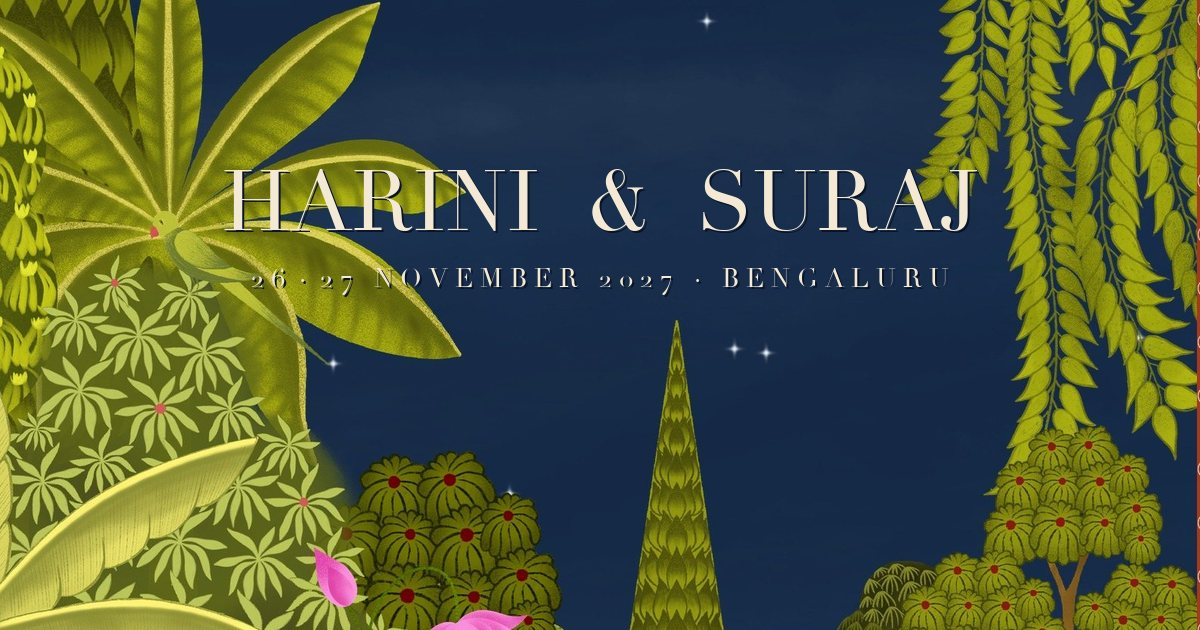
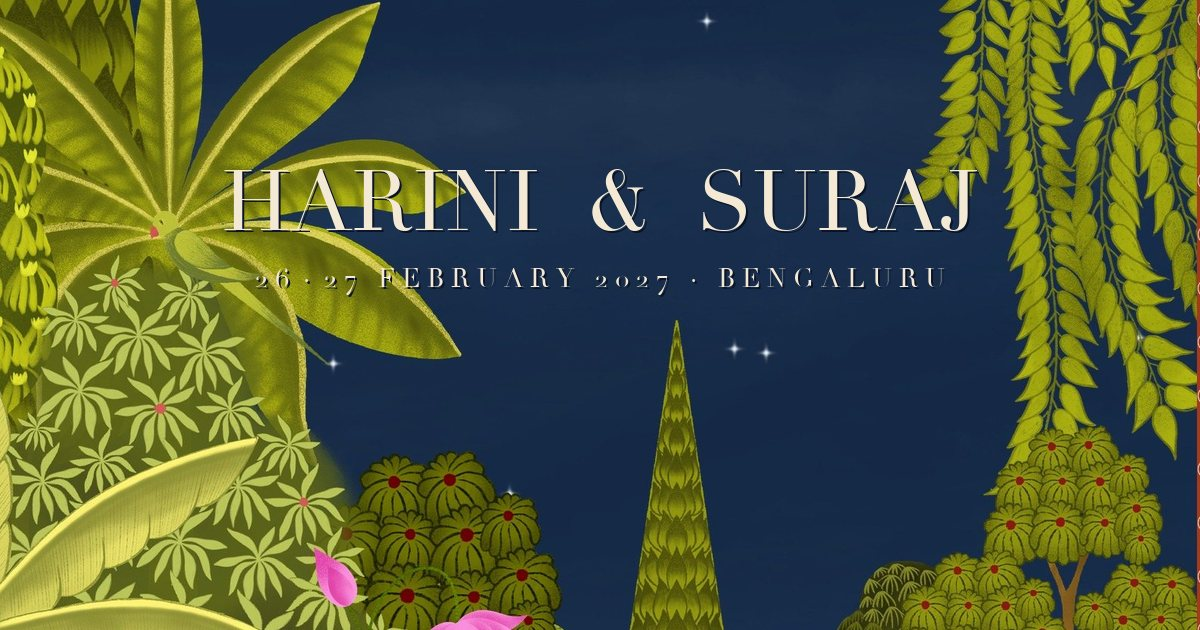
Save the Date photo card inside the banana leaf; dates back to 26 & 27 February 2027
The card stays on screen 3.5 s after the leaf opens, then fades into the site.
The card's printed date, the site and the share image now all read 26 · 27 February 2027.

Changed region(s): [[0.2158, 0.4222, 0.555, 0.4825], [0.5858, 0.4222, 0.8017, 0.4524]]

diff --git a/index.html b/index.html
@@ -3,10 +3,10 @@
 <head>
   <meta charset="utf-8">
   <meta name="viewport" content="width=device-width, initial-scale=1, viewport-fit=cover">
-  <title>Harini &amp; Suraj · 26–27 November 2027</title>
-  <meta name="description" content="You’re invited to the wedding of Harini and Suraj at Le Roma Samsara, Bengaluru, on 26 &amp; 27 November 2027.">
+  <title>Harini &amp; Suraj · 26–27 February 2027</title>
+  <meta name="description" content="You’re invited to the wedding of Harini and Suraj at Le Roma Samsara, Bengaluru, on 26 &amp; 27 February 2027.">
   <meta property="og:title" content="Harini weds Suraj">
-  <meta property="og:description" content="26 · 27 November 2027 · Le Roma Samsara, Bengaluru">
+  <meta property="og:description" content="26 · 27 February 2027 · Le Roma Samsara, Bengaluru">
   <meta property="og:image" content="https://mallareddisuraj-jpg.github.io/Shaadi/assets/share.jpg">
   <meta name="theme-color" content="#2b4e80">
   <link rel="preconnect" href="https://fonts.googleapis.com">
@@ -32,13 +32,7 @@
     <div class="env" id="env" aria-hidden="true">
       <img class="env__part env__back" src="assets/leaf-back.svg" alt="">
       <div class="env__card">
-        <div class="env__jaali"></div>
-        <p class="env__om">ॐ</p>
-        <p class="env__names">Harini <span>&amp;</span> Suraj</p>
-        <p class="eyebrow">26 · 27 November 2027</p>
-        <p class="env__blessing">With the blessings of our families,<br>we invite you to celebrate with us</p>
-        <p class="eyebrow env__venue">Le Roma Samsara · Bengaluru</p>
-        <div class="env__jaali env__jaali--foot"></div>
+        <img src="assets/save-the-date.webp" alt="Save the date: Suraj and Harini as children">
       </div>
       <img class="env__part env__flap env__flap--left" src="assets/leaf-left.svg" alt="">
       <img class="env__part env__flap env__flap--right" src="assets/leaf-right.svg" alt="">
@@ -72,7 +66,7 @@
         <h1 class="display reveal">Harini</h1>
         <p class="weds reveal">W E D S</p>
         <h1 class="display reveal">Suraj</h1>
-        <p class="eyebrow reveal">26 · 27 November 2027</p>
+        <p class="eyebrow reveal">26 · 27 February 2027</p>
       </div>
       <p class="scroll-cue eyebrow">Scroll</p>
     </section>
@@ -113,7 +107,7 @@
     <section class="textured event event--welcome">
       <figure class="event__scene reveal"><img src="assets/ev-checkin.webp" alt="The palace lawn" loading="lazy" decoding="async"></figure>
       <div class="event__text reveal">
-        <p class="eyebrow">Friday · 26 November</p>
+        <p class="eyebrow">Friday · 26 February</p>
         <h3 class="event__name">Check-in &amp; High Tea</h3>
         <p class="eyebrow event__time">6:00 PM</p>
       </div>
@@ -121,7 +115,7 @@
     <section class="textured event event--dinner">
       <figure class="event__scene reveal"><img src="assets/ev-welcome.webp" alt="The night garden" loading="lazy" decoding="async"></figure>
       <div class="event__text reveal">
-        <p class="eyebrow">Friday · 26 November</p>
+        <p class="eyebrow">Friday · 26 February</p>
         <h3 class="event__name">Welcome Reception</h3>
         <p class="eyebrow event__time">7:00 PM onwards</p>
         <p class="event__note">Followed by dinner</p>
@@ -130,7 +124,7 @@
     <section class="textured event event--haldi">
       <figure class="event__scene reveal"><img src="assets/ev-haldi.webp" alt="The courtyard" loading="lazy" decoding="async"></figure>
       <div class="event__text reveal">
-        <p class="eyebrow">Saturday · 27 November</p>
+        <p class="eyebrow">Saturday · 27 February</p>
         <h3 class="event__name">Haldi</h3>
         <p class="eyebrow event__time">10:00 AM</p>
         <p class="event__note">Followed by lunch</p>
@@ -139,7 +133,7 @@
     <section class="textured event event--wedding">
       <figure class="event__scene reveal"><img src="assets/ev-wedding.webp" alt="The lotus pavilion" loading="lazy" decoding="async"></figure>
       <div class="event__text reveal">
-        <p class="eyebrow">Saturday · 27 November</p>
+        <p class="eyebrow">Saturday · 27 February</p>
         <h3 class="event__name">Shubh Vivaah</h3>
         <p class="eyebrow event__time">4:30 PM onwards</p>
         <p class="event__note">Followed by dinner</p>
@@ -165,7 +159,7 @@
       <div class="closing__inner reveal">
         <p class="body">We can’t wait to celebrate with you</p>
         <p class="heading">Harini &amp; Suraj</p>
-        <p class="eyebrow">26 · 27 November 2027 · Bengaluru</p>
+        <p class="eyebrow">26 · 27 February 2027 · Bengaluru</p>
       </div>
     </section>
   </main>

diff --git a/css/style.css b/css/style.css
@@ -81,20 +81,10 @@ section { position: relative; overflow: hidden; }
 .env { position: relative; width: min(84vw, 50vh, 460px); aspect-ratio: 300 / 420; perspective: 1400px; transform: translateY(-3vh);
   filter: drop-shadow(0 26px 34px rgba(0,0,0,.6)); transition: transform 1.4s cubic-bezier(.3,.7,.2,1); }
 .env__part { position: absolute; inset: 0; width: 100%; height: 100%; display: block; }
-.env__card { position: absolute; left: 7%; right: 7%; top: 2%; height: 74%; border-radius: 3px; overflow: hidden; text-align: center; color: #6b1d28;
-  background: #f7f0df; box-shadow: 0 2px 8px rgba(0,0,0,.25); display: grid; align-content: start; justify-items: center; gap: 2px; padding-top: 17%;
-  transition: transform 1.3s cubic-bezier(.3,.7,.2,1), opacity .8s ease; }
-.env__jaali { position: absolute; left: 0; right: 0; top: 0; height: 25%; background: url("../assets/kolam-gold.svg") center / 52px;
-  -webkit-mask-image: radial-gradient(ellipse 34% 70% at 50% 100%, transparent 98%, #000 100%); mask-image: radial-gradient(ellipse 34% 70% at 50% 100%, transparent 98%, #000 100%); opacity: .9; }
-.env__jaali::after { content: ""; position: absolute; left: 0; right: 0; bottom: 0; height: 2px; background: linear-gradient(90deg, transparent, #c9a24a 20%, #c9a24a 80%, transparent); }
-.env__om { position: relative; font-family: var(--deva); font-size: clamp(20px, 5vw, 26px); color: #b8913a; }
-.env__names { position: relative; font-family: var(--serif); font-style: italic; font-size: clamp(30px, 8.6vw, 46px); line-height: 1.05; }
-.env__names span { font-size: .7em; color: #b8913a; }
-.env__card .eyebrow { position: relative; font-size: 10px; color: #8a6a2a; }
-.env__blessing { position: relative; margin-top: 16%; font-style: italic; font-size: clamp(14px, 3.8vw, 18px); line-height: 1.4; color: #5c4a2a; }
-.env__venue { margin-top: 8px; }
-.env__jaali--foot { top: auto; bottom: 0; height: 16%; -webkit-mask-image: none; mask-image: none; }
-.env__jaali--foot::after { top: 0; bottom: auto; }
+/* The card inside is the Save the Date photo card */
+.env__card { position: absolute; left: 7%; right: 7%; top: 2%; aspect-ratio: 1122 / 1402; border-radius: 4px; overflow: hidden;
+  box-shadow: 0 2px 10px rgba(0,0,0,.35); transition: transform 1.3s cubic-bezier(.3,.7,.2,1); }
+.env__card img { display: block; width: 100%; height: 100%; }
 .env__flap { transition: transform 1.15s cubic-bezier(.55,.05,.35,1), opacity .4s ease .7s; backface-visibility: hidden; filter: drop-shadow(0 3px 5px rgba(0,0,0,.35)); }
 .env__flap--left { transform-origin: 0 50%; }
 .env__flap--right { transform-origin: 100% 50%; }
@@ -114,8 +104,8 @@ section { position: relative; overflow: hidden; }
 .gate.is-opening .cord__bow { transform: translate(90px, 60px) scale(.3) rotate(40deg); opacity: 0; }
 .gate.is-opening .env__flap--left  { transform: rotateY(-165deg); transition-delay: .6s; }
 .gate.is-opening .env__flap--right { transform: rotateY(165deg);  transition-delay: .75s; }
-.gate.is-opening .env__card { transform: translateY(-8%) scale(1.04); transition-delay: 1.2s, 2.1s; }
-.gate.is-opening .env { transform: translateY(4vh) scale(1.35); transition-delay: 1.9s; }
+.gate.is-opening .env__card { transform: translateY(-4%); transition-delay: 1.2s; }
+.gate.is-opening .env { transform: translateY(11vh) scale(1.12); transition-delay: 1.9s; }
 .gate.is-opening .env__back { opacity: 0; transition: opacity .6s ease 1.6s; }
 .route__btn { margin-top: 18px; display: grid; gap: 14px; justify-items: center; background: none; border: 0; color: inherit; cursor: pointer; text-decoration: none; font: inherit; }
 .gate__ring { width: 96px; height: 96px; border-radius: 50%; border: 1.5px solid rgba(244,233,212,.9); display: grid; place-items: center; transition: transform .4s cubic-bezier(.2,.8,.2,1); }

diff --git a/js/main.js b/js/main.js
@@ -94,7 +94,7 @@
       document.body.classList.remove("locked");
       window.scrollTo(0, 0);
       document.querySelectorAll(".scene--sky .reveal").forEach((el) => el.classList.add("in"));
-    }, reduceMotion ? 0 : 3100);
+    }, reduceMotion ? 0 : 5400);                     // the leaf is fully open at ~1.9s; the card then stays 3.5s
   };
   // Pull the thread: drag sideways or down; the cord follows the finger, a long enough pull opens it. A tap also works.
   let start = null;
